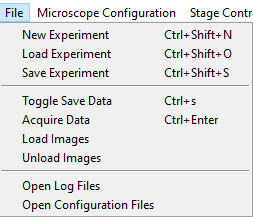
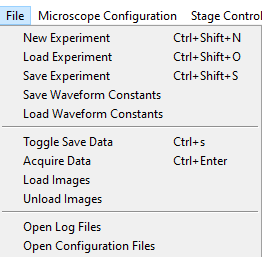
Updating documentation
Updated the documentation to show the updated file menu. Also added few lines about the load and save waveform constants option in the documentation.

Replaced the menu_file.png image with a new image of the file menu.

diff --git a/docs/source/user_guide/gui_walkthrough.rst b/docs/source/user_guide/gui_walkthrough.rst
@@ -22,10 +22,10 @@ File
 
 The :guilabel:`File` menu lets a user create, load and save
 :ref:`experiment files <user_guide/software_configuration:experiment file>`,
-which store the states of the GUI and the hardware. This is useful if a user wants to 
+which store the states of the GUI and the hardware. The menu also provides an option to load and save :ref:`waveform constants files <user_guide/software_configuration:waveform constants file>` to store the waveform constants used for a given experiment. This is useful if a user wants to
 perform an experiment with the same parameters multiple times, but close the software 
-in between acquisitions. To facilitate reproducibility, an `experiment.yml` file is 
-always saved with collected image data.
+in between acquisitions. To facilitate reproducibility, `experiment.yml` and `waveform_constants.yml` files are
+always saved with the collected image data.
 
 The :guilabel:`File` menu also provides access to toggle the :guilabel:`Save Data` flag,
 also found under :guilabel:`Timepoint Settings` in the 
